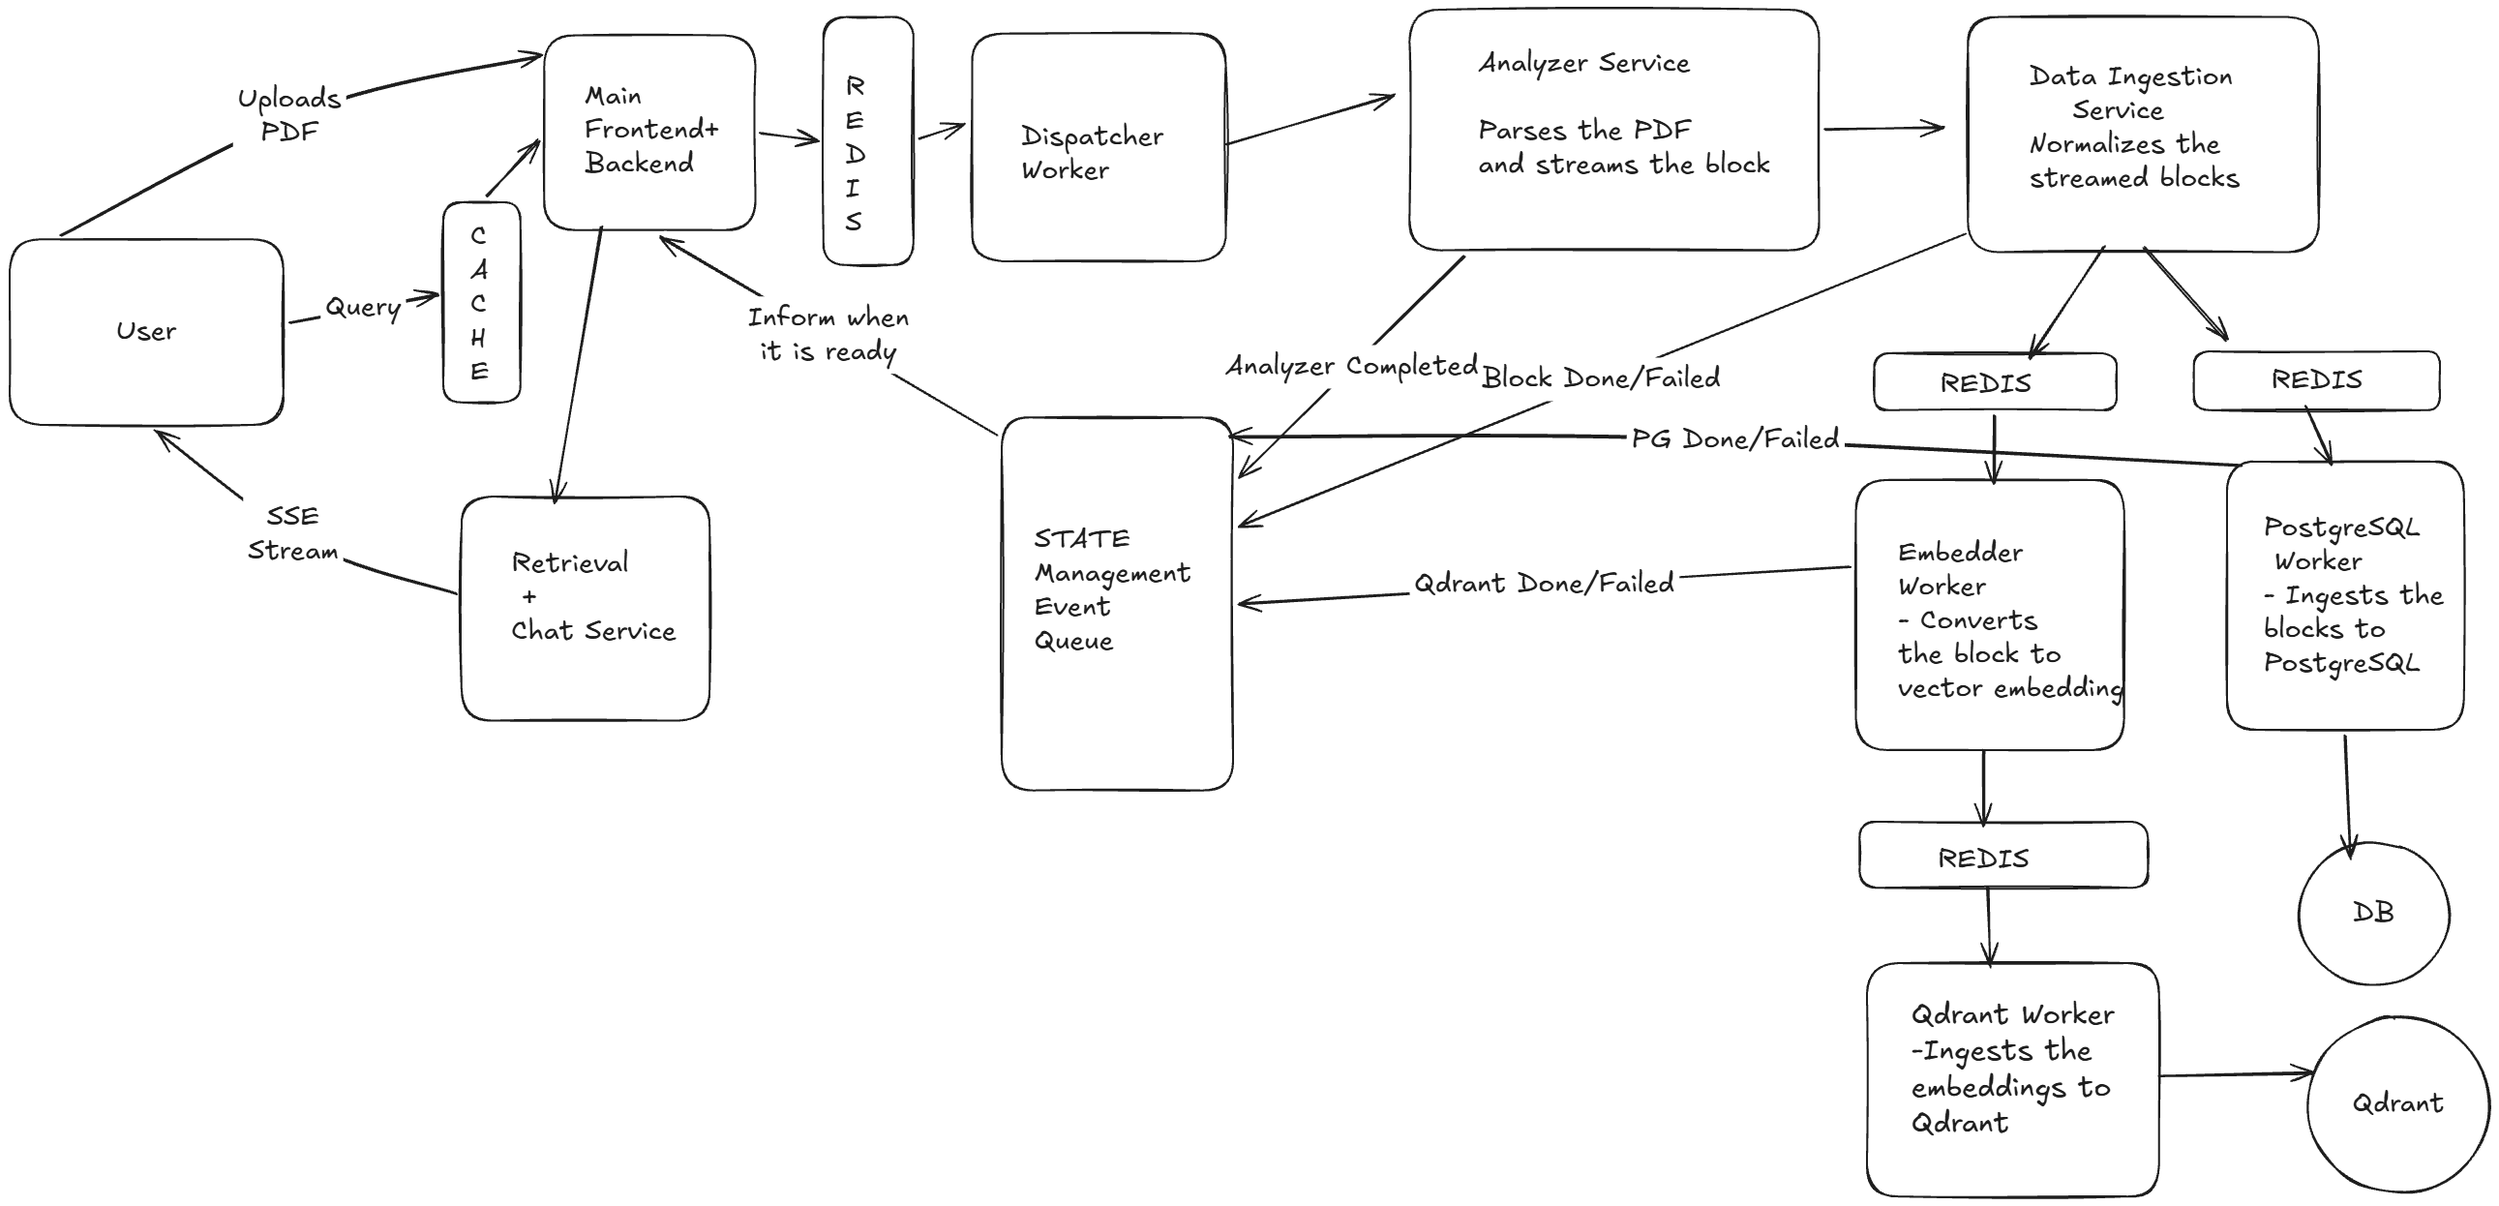
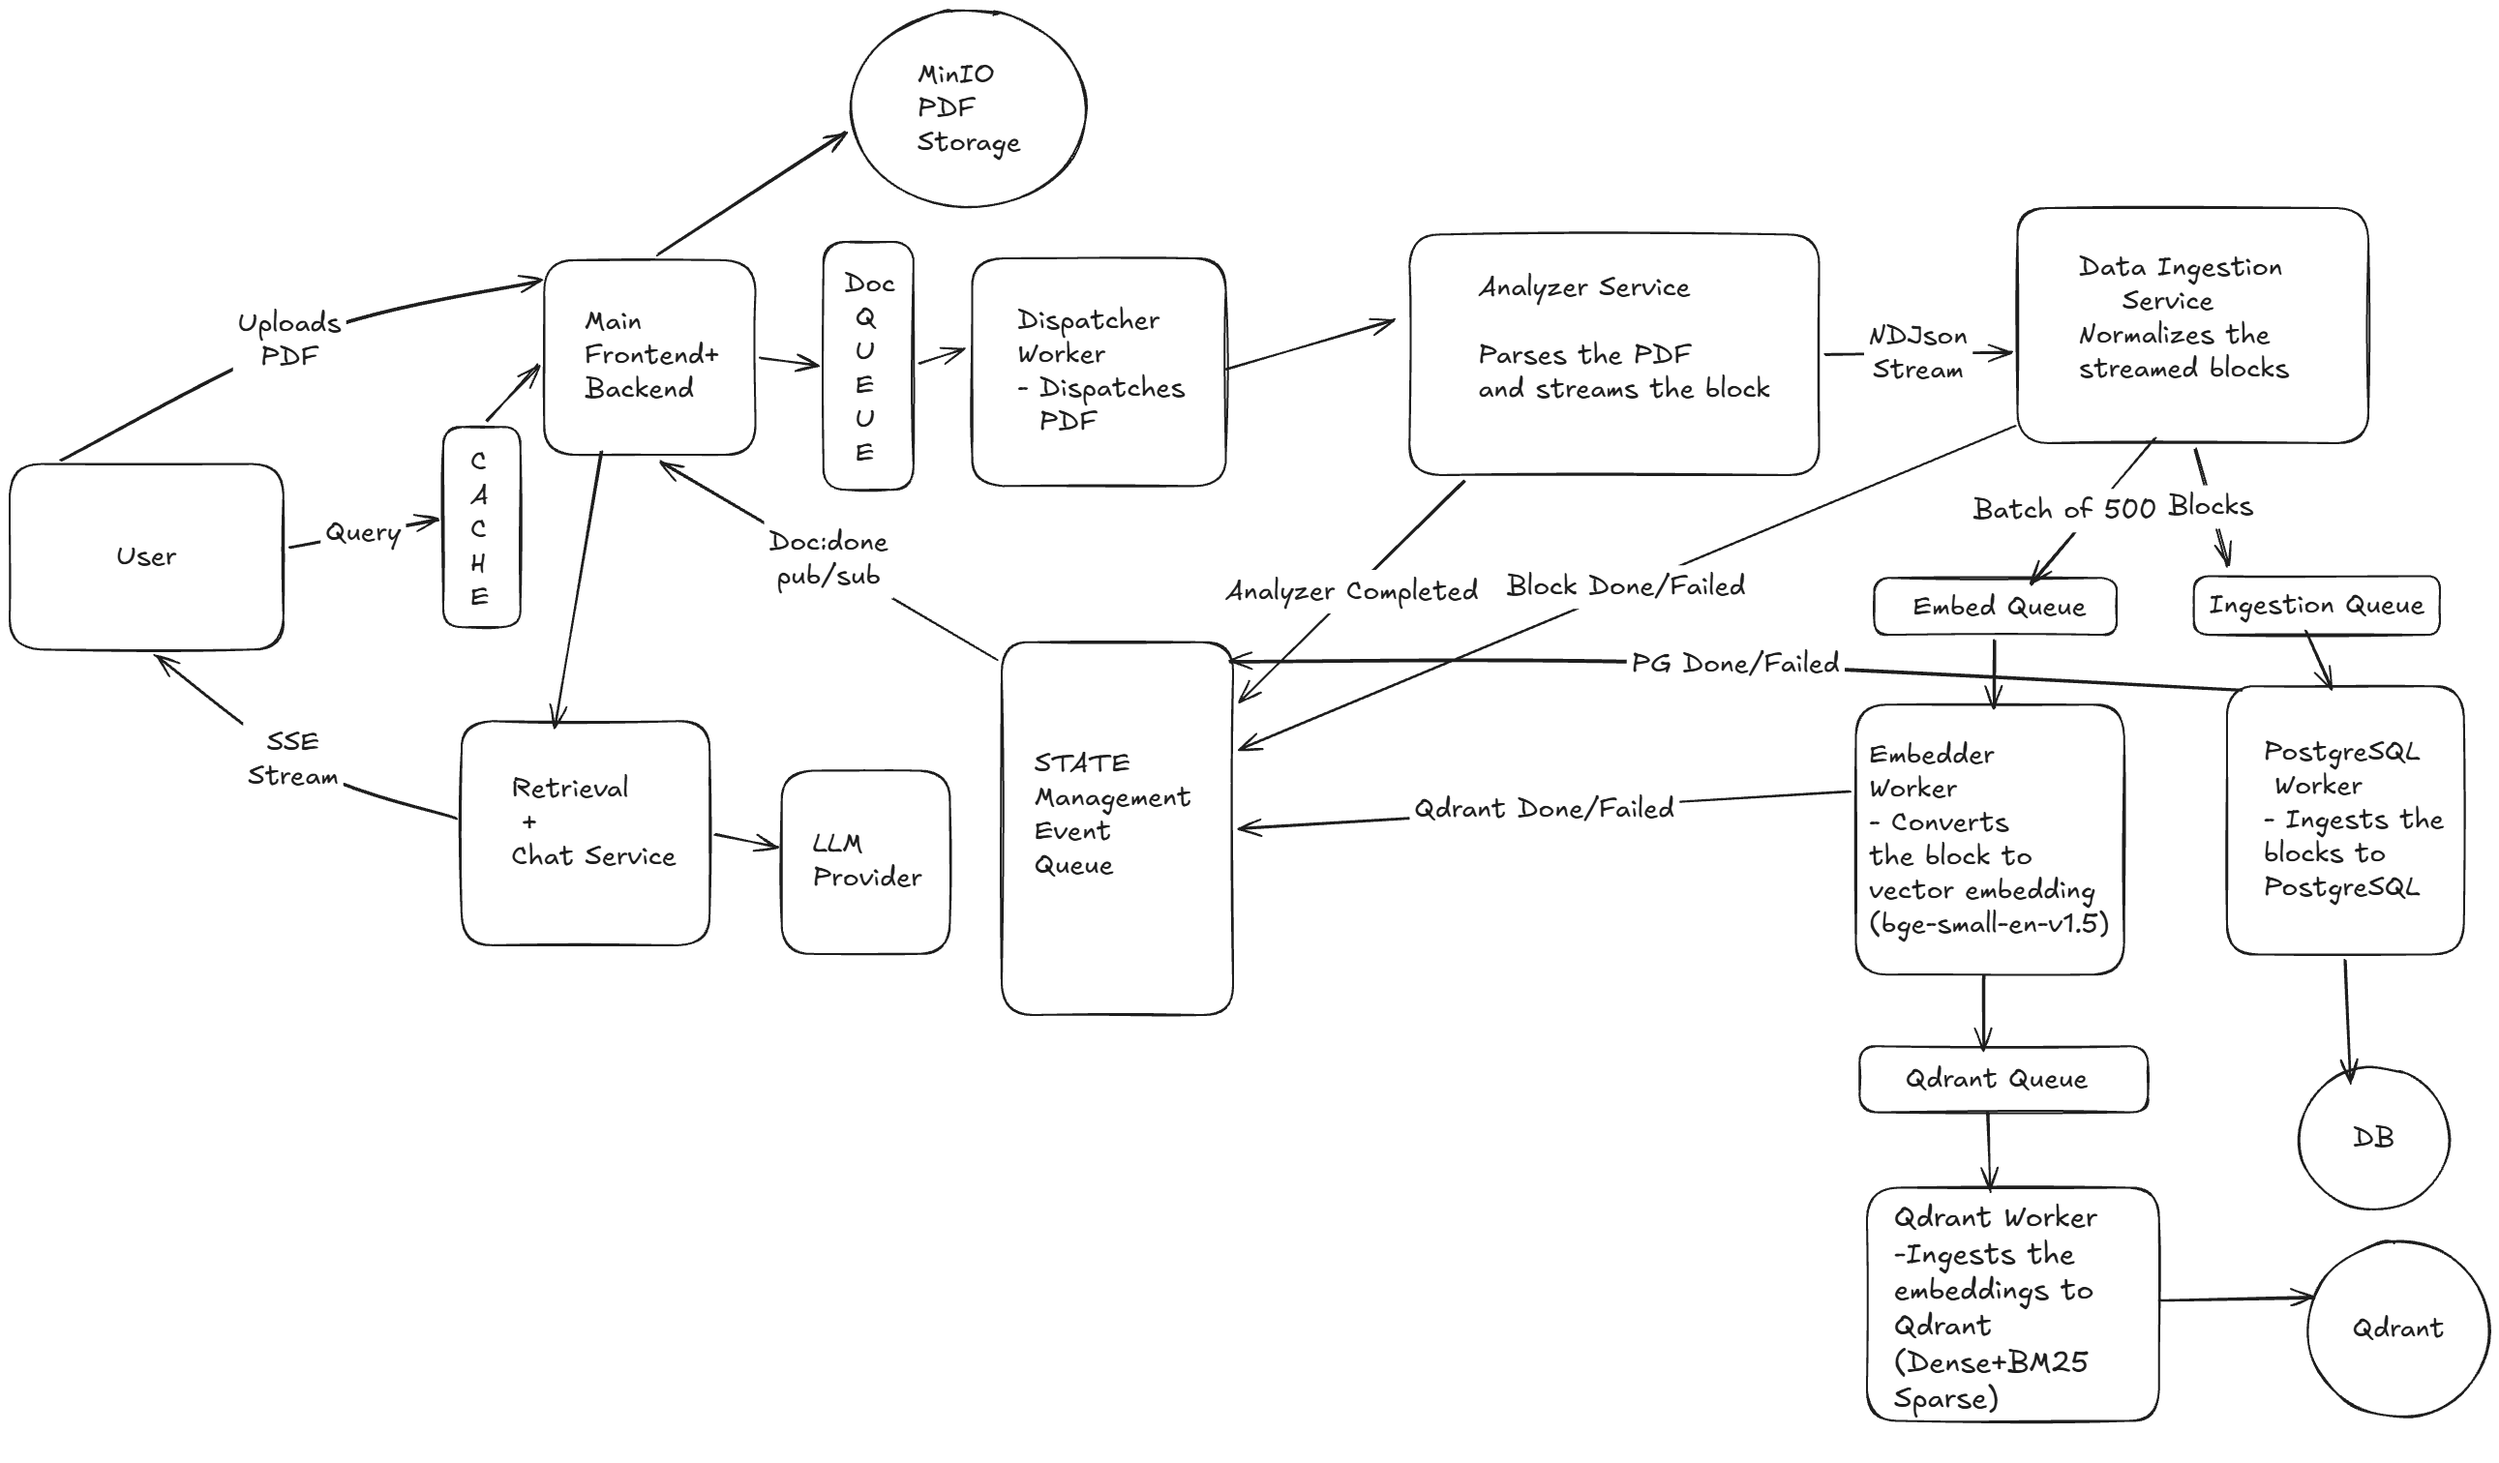
Feat: Readme and some fixes

diff --git a/README.md b/README.md
@@ -1,1 +1,133 @@
-Feed the knowledge and learn from it :)
+# FeedGPT 
+
+> Upload a PDF. Ask it questions. Get answers with citations, streamed token by token.
+> Built as a microservice RAG platform, coz comepetition here is soo muchh and tuff bro.
+
+I built this to learn how a **production-style RAG system** actually works and how can I ship a product, not just "embed chunks, call an LLM". Async pipelines, idempotent workers, completion tracking, hybrid search, reranking, streaming.
+
+It works. It definitely works end to end :)
+
+---
+
+## What it does
+
+1. You upload a PDF.
+2. The document is parsed, normalized, split into blocks and chunks and they are normalized, and sent out to **Postgres** (source of truth) and **Qdrant** (dense vectors + BM25 sparse vectors).
+3. A state service tracks the document across every stage and tells the system when it is **fully processed**.
+4. You ask a question. The retrieval service runs **hybrid search(Semantic + BM25 Sparse) → RRF → cross-encoder rerank**, builds a context, and streams the answer back over **SSE(Server Sent Events)** using *your own* LLM API key (OpenAI-compatible, tested with Groq).
+
+---
+
+## Architecture
+![Implemented Architecture](./assets/RAG%20Infra.png)
+
+## Output
+![op1](./assets/img1.png)
+![op2](./assets/img2.png)
+![op3](./assets/img3.png)
+![op4](./assets/img4.png)
+![op5](./assets/img5.png)
+![op6](./assets/img6.png)
+![op7](./assets/img7.png)
+![op8](./assets/img8.png)
+![op9](./assets/img9.png)
+![op10](./assets/img10.png)
+
+### Services
+
+| Service | Stack | Job |
+|---|---|---|
+| **Frontend** | Next.js, React, ShadCN | Upload, status, chat UI with streaming |
+| **Backend API** | Fastify, Prisma | Accepts uploads, stores the PDF in MinIO, creates the document record, enqueues work |
+| **Dispatcher** | BullMQ worker | Dispatches to Analyzer |
+| **Analyzer** | | Parses the PDF using unstructured, streams blocks as NDJSON |
+| **Data-Ingestion** | Fastify, BullMQ | Receives the stream, normalizes the blocks, batches blocks (500 per job), sends to the queues |
+| **Block Ingestion Worker** | BullMQ | Idempotent upsert of blocks into Postgres |
+| **Embedder Worker** | BullMQ, bge | Turns chunks into dense vectors |
+| **Qdrant Worker** | BullMQ | Upserts dense + sparse (BM25) vectors |
+| **State Manager** | Redis | Knows when a document is complete, partial, or failed |
+| **Retrieval** | Python, FastAPI | Hybrid search, RRF, rerank, context building, SSE streaming |
+
+---
+
+## How retrieval works?
+
+```
+POST /chat
+  → guards (LLM URL validation)
+  → semantic search (bge query embedding, cached)  
+  → BM25 search (sparse vectors in Qdrant)         
+  → Reciprocal Rank Fusion (merge by rank)
+  → cross-encoder rerank (BAAI/bge-reranker-base)
+  → weak-retrieval check ("couldn't find this in the document")
+  → context builder (dedupe, token budget, numbered citations)
+  → LLM concurrency limiter + timeout
+  → SSE stream to the client
+```
+
+- **BM25 lives in Qdrant as sparse vectors.** Terms are hashed (FNV-1a) and weighted with the BM25 formula at index time, and Qdrant applies IDF at query time. The tokenizer and hash must be identical anywhere sparse vectors are created or queried.
+- **RRF merges by rank**, because cosine similarity and BM25 scores live on totally different scales.
+- **The reranker is the slowest step**, so it runs in a single-worker thread pool (concurrent forward passes crashed my torch), with a timeout that falls back to RRF order. (Got so many Segmentation Fault tbh)
+- **Bring your own LLM.** The frontend sends the API URL, key, and model. The key is used for that request only, never stored, never logged. The URL is validated to block requests to private addresses.
+---
+
+## Running it locally
+
+> Fill in the exact commands and env vars for your setup before publishing. The skeleton is below.
+
+**You need:** Docker, Node 20+, Python 3.11+, and an OpenAI-compatible LLM API key (Groq is free and fast).
+
+```bash
+git clone https://github.com//FeedGPT.git
+cd FeedGPT
+cd backend/infra/docker
+docker compose up -d
+# infra: Redis, Postgres, Qdrant, MinIO
+
+# start each service (separate terminals, or Docker compose and other Dockerfiles needs to be tested so yea kindly understand)
+# analyzer(python), data-ingestion, dispatcher, state manager,
+# postgres worker, embedder worker, qdrant worker, api, retrieval(python), frontend
+#For python u gotta do create venv and activate it and then pip install -r requirements.txt (Check notes.txt for the ports)
+#Shit i will create .env.example
+#For others, u gotta do npm i and then npm run dev
+#Refer notes.txt
+```
+
+Then:
+1. Open the frontend and upload a PDF.
+2. Wait for the status to **COMPLETED**.
+3. Paste your LLM base URL (e.g. `https://api.groq.com/openai/v1`), API key, and model name.
+4. Ask something.
+
+### Environment variables
+
+| Variable | Used by | Notes |
+|---|---|---|
+| `REDIS_URL` | everything | Queues and BullMQ |
+| `STATE_REDIS_URL` | state manager, workers | Redis holding the state sets |
+| `DATABASE_URL` | API, Postgres worker | Prisma / Postgres |
+| `QDRANT_URL` / `QDRANT_COLLECTION` | Qdrant worker, retrieval | Must match everywhere |
+| `MINIO_*` | API, analyzer | Object storage for PDFs |
+
+---
+
+## What I learned
+- Starting off with event-driven services
+- ND/JSON Streaming
+- Recursive + Sliding Window Chunking Technique
+- BM25 Sparse Vector creation using FNV-1a
+- Retrieval quality is mostly decided at ingestion
+- SSE(Server Sent Events)
+---
+
+## Technology Stack
+Frontend: Next.js, React, Typescript, Shadcn/ui, TailwindCSS
+Backend: Node.js, Fastify, Python, FastAPI
+Database & ORM: PostgreSQL, Qdrant, Prisma
+Object Storage: MinIO
+Queue & Messaging: Redis, BullMQ
+Embedding & Reranking: Sentence Transformers, PyTorch, Xenova/bge-small-en-v1.5(Node compatible), BAAI/bge-small-en-v1.5(Python), BAAI/bge-reranker-base (Cross Encoder)
+Containerization: Docker, Docker Compose
+
+## End Note
+On to the next oneeee (AI Inference!)
